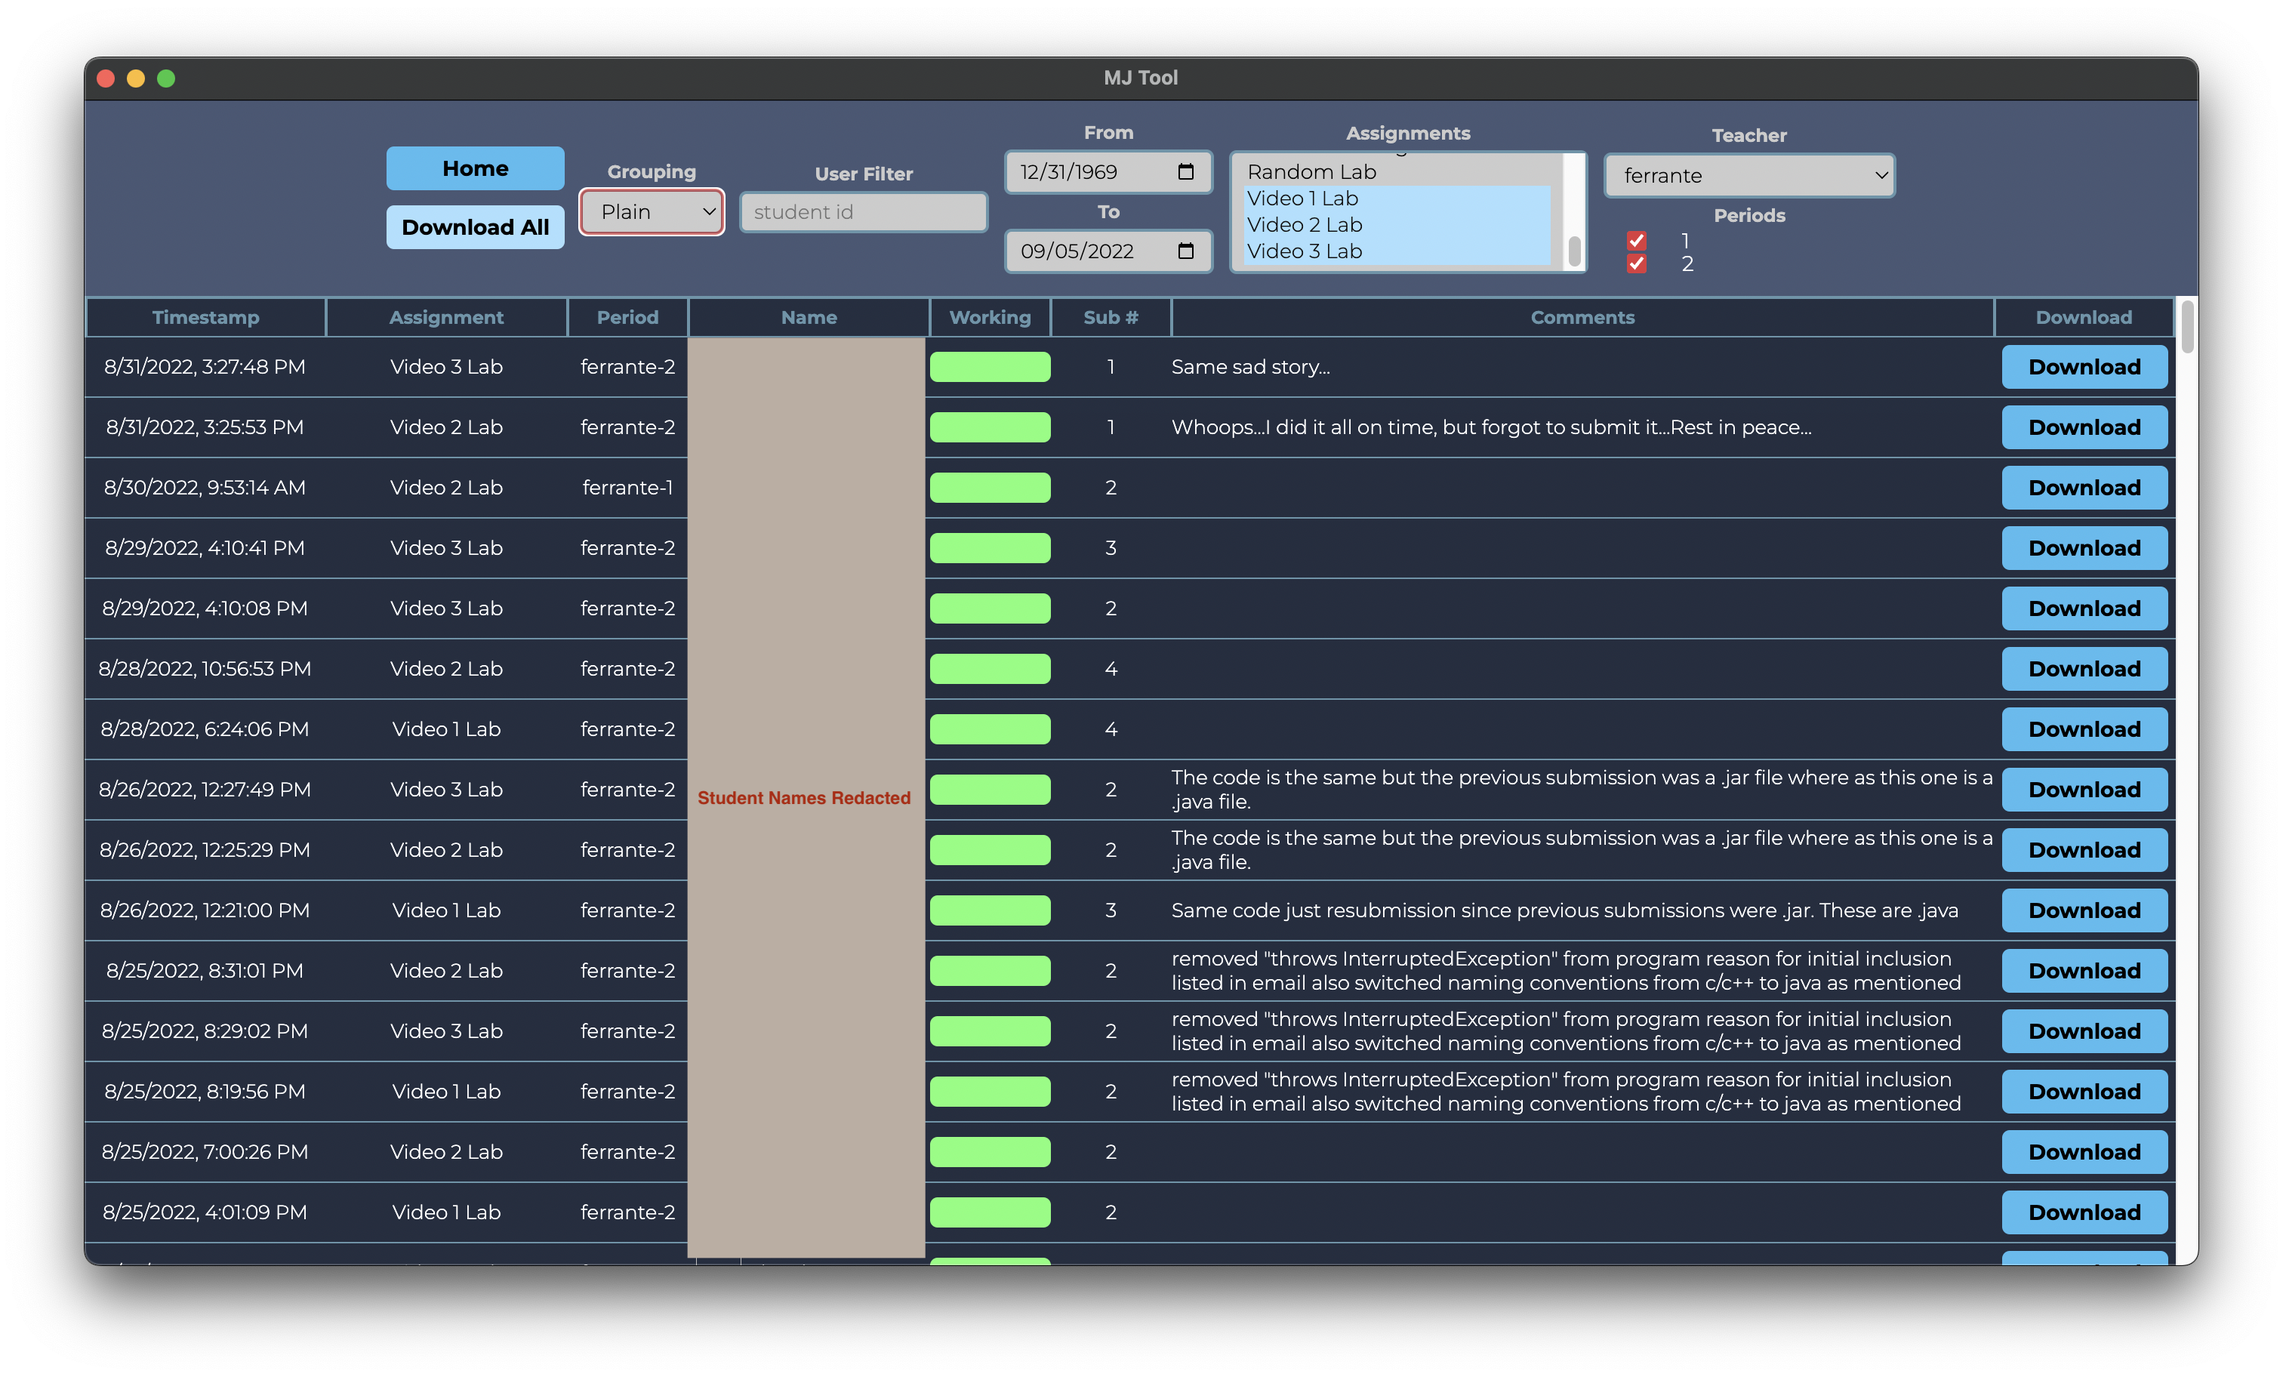
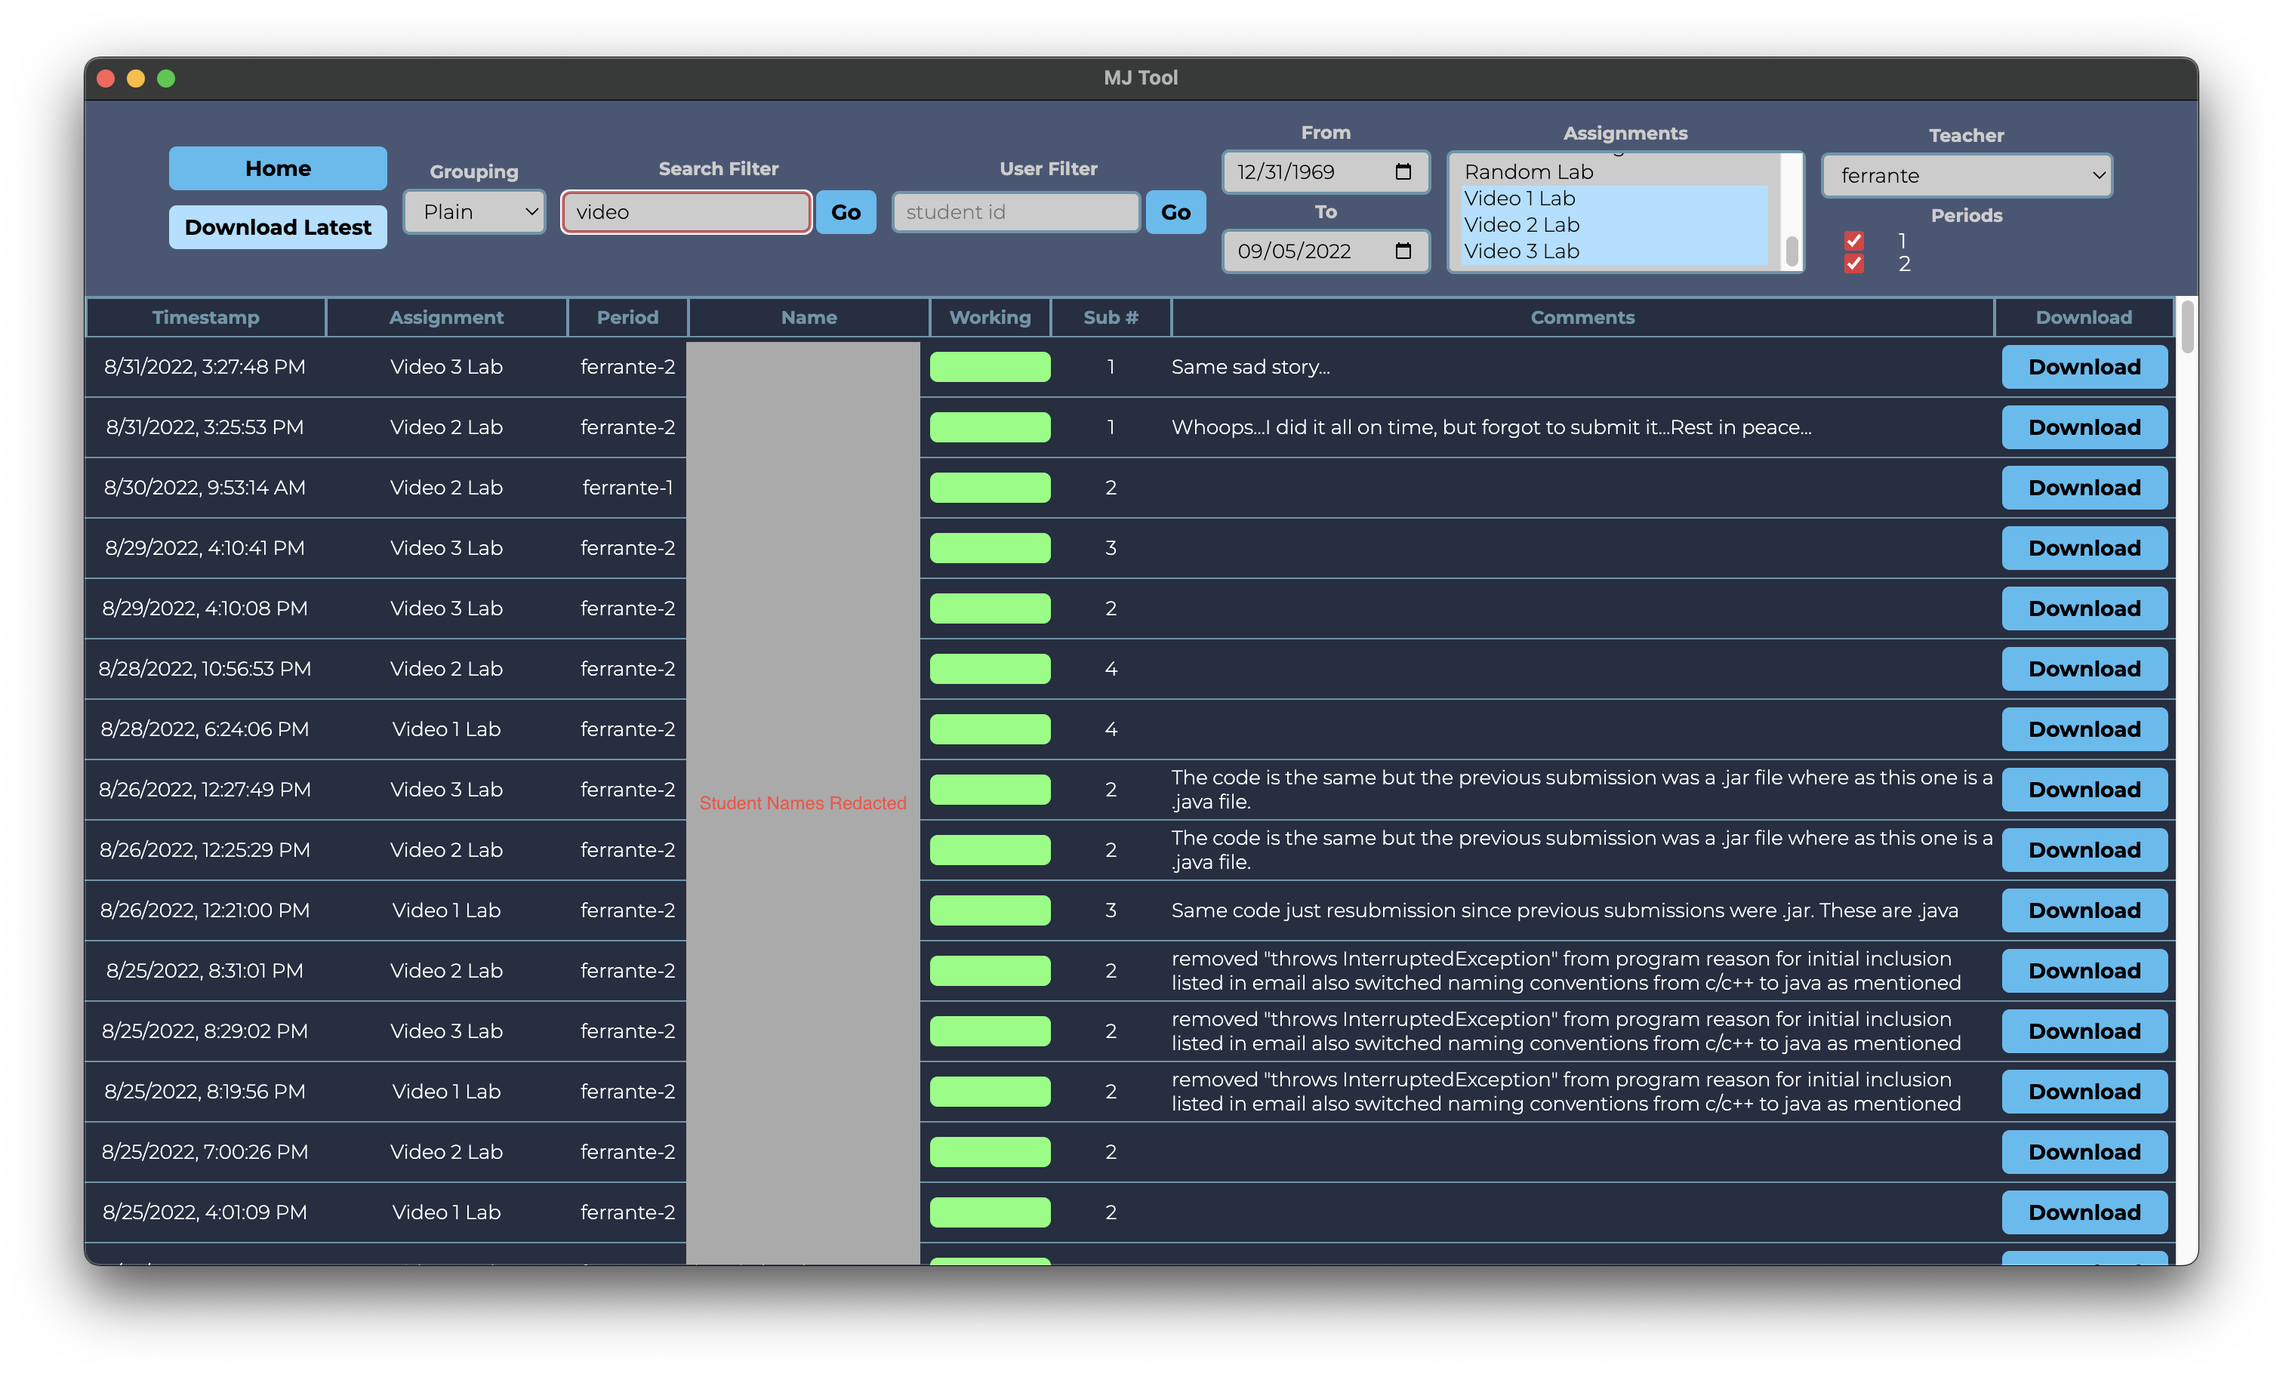
Add general search feature

diff --git a/src/components/main/main.tsx b/src/components/main/main.tsx
@@ -1,4 +1,4 @@
-import React, { useState } from "react";
+import React, { FormEvent, useDebugValue, useState } from "react";
 import { Link, useLocation } from "react-router-dom";
 import { landing_state } from "../landing/state_provider";
 import { api_credentials, assignment_meta, queryAssignments, submission_meta } from "../../util/proxy";
@@ -16,6 +16,7 @@ type setStateType = (delta : Partial<main_state>) => void
 export interface main_state {
     grouping: "Ordered" | "Plain"
 
+    search: string,
     sid: number | null
     date_start?: Date,
     date_end?: Date,
@@ -53,15 +54,17 @@ function Actions(props: {state: main_state, subs: Promise<submission_meta[] | st
                 }
 
                 // go in order, so that latest results override first
-                for (const submission of flatten(await categorize(subs, credentials, props.state.assignments, props.state.teacher, props.state.period)).reverse()) {
-                    await downloadSubmission(submission, props.state, !hasOpened)
-                    if (!hasOpened) {
-                        hasOpened = true;
+                for (const submission of flatten(await categorize(subs, credentials, props.state.assignments, props.state.teacher, props.state.period, props.state.search)).reverse()) {
+                    if (submission.ref.version === submission.student.submissions.length) {
+                        await downloadSubmission(submission, props.state, !hasOpened)
+                        if (!hasOpened) {
+                            hasOpened = true;
+                        }
                     }
                 }
                 displayMessage("Success","info", "All files have been downloaded")
             }}>
-                Download All
+                Download Latest
             </button>
 
             {props.state.grouping === "Ordered" && 
@@ -95,14 +98,50 @@ function Grouping(props: {grouping: string, setState : setStateType}) {
     )
 }
 
-function SID(props: {sid: number, setState : setStateType}) {
+function Search(props: {search: string, setState : setStateType}) {
+    const [buffer, setBuffer] = useState(props.search)
+    function submit(event : FormEvent) {
+        event.preventDefault()
+        props.setState({search: buffer, grouping: "Plain"})
+    }
+
+    return (
+        <div className="col">
+            <label>Search Filter</label>
+            <form className="row" onSubmit={submit}>
+                <input placeholder="comments, files, names, etc" value={buffer || ""} onChange={event => {
+                    setBuffer(event.target.value)
+                }}/>
+                <button className="capsule primary-button search-button">
+                    Go
+                </button>
+            </form>
+           
+        </div>
+    )
+}
+
+function SID(props: {sid: number | null, setState : setStateType}) {
+    const [buffer, setBuffer] = useState(props.sid)
+
+    function submit(event : FormEvent) {
+        event.preventDefault()
+        props.setState({sid: buffer, grouping: "Plain"})
+    }
+
     return (
         <div className="col">
             <label>User Filter</label>
-            <input placeholder="student id" value={props.sid || ""} onChange={event => {
-                const str = event.target.value.replace(/\D/g,'')
-                props.setState({sid: str ? parseInt(str) : null})
-            }}/>
+            <form className="row" onSubmit={submit}>
+                <input placeholder="student id" value={buffer || ""} onChange={event => {
+                    const str = event.target.value.replace(/\D/g,'')
+                    setBuffer(str ? parseInt(str) : null)
+                }}/>
+                <button className="capsule primary-button search-button">
+                    Go
+                </button>
+            </form>
+           
         </div>
     )
 }
@@ -159,6 +198,7 @@ function Toolbar(props: {state : main_state, setState : setStateType, subs: Prom
         <div className="row toolbar">
             <Actions state={props.state} subs={props.subs}/>
             <Grouping grouping={props.state.grouping} setState={props.setState}/>
+            <Search search={props.state.search} setState={props.setState}/>
             <SID sid={props.state.sid} setState={props.setState}/>
             <DateRange start={props.state.date_start} end={props.state.date_end} setState={props.setState}/>
             <Guard async={queryAssignments({key: props.state.api_password, url: props.state.api_url})} fallback={<LoadingSmall/>}>

diff --git a/src/components/main/tasks.ts b/src/components/main/tasks.ts
@@ -42,6 +42,33 @@ function validSubmissionFor(submission_meta : submission_meta, state : main_stat
             return true;
         }
     }
+
+    return false;
+}
+
+function secondaryValidSubmissionFor(submission : submission, search : string) : boolean {
+    if (!search) {
+        return true;
+    }
+
+    const terms = search.toLowerCase().split(" ")
+    const student = submission.student.ref
+    const roster = submission.student.roster.ref
+    const assignment = submission.student.roster.assignment.ref
+
+    const matchAgainst = submission.file_names
+        .concat(submission.ref.comment, [student.first, student.last], [roster.teacher], [assignment.name])
+        .map(x => x.toLowerCase())
+    
+    
+    for (const term of terms) {
+        for (const pair of matchAgainst) {
+            if (pair.includes(term)) {
+                return true;
+            }
+        }
+    }
+
     return false;
 }
 
@@ -118,7 +145,7 @@ export async function quickCopy(subs: submission_meta[], state: main_state) {
         url : state.api_url
     }
     try {
-        const assignments = await categorize(subs, credentials, state.assignments, state.teacher, state.period)
+        const assignments = await categorize(subs, credentials, state.assignments, state.teacher, state.period, state.search)
         await copy(credentials, assignments, state.due_date)
         await displayMessage("Status", "info", "Copy success")
     } catch (err : any) {
@@ -145,7 +172,8 @@ function mappedRoster(meta : roster_meta, assignment : assignment) : roster {
     return ret;
 }
     
-export async function categorize(meta : submission_meta[], credentials: api_credentials, assignments : assignment_meta[], teacher: string, periods: number[]) : Promise<assignment[]> {
+
+export async function categorize(meta : submission_meta[], credentials: api_credentials, assignments : assignment_meta[], teacher: string, periods: number[], search: string) : Promise<assignment[]> {
     // get a master list for back and forth
 
     const assignmentSkeleton : {[path: string] : assignment} = {}
@@ -178,7 +206,6 @@ export async function categorize(meta : submission_meta[], credentials: api_cred
 
         assignmentSkeleton[assignment.path] = mapped
     }
-    const promises : Promise<string[]>[] = []
 
     for (const sub of meta) {
         const lesson = sub.lesson;
@@ -189,12 +216,15 @@ export async function categorize(meta : submission_meta[], credentials: api_cred
         const student = assignmentSkeleton[lesson].map[roster].map[studentID]
 
 
-        const submission : submission = {ref: sub, student: student, file_names: []}
-        promises.push(queryFilenames(credentials, sub, student).then(fileNames => submission.file_names = fileNames))
-
-        student.submissions.push(submission)
+        const fileNames = await queryFilenames(credentials, sub, student);
+        const submission : submission = {ref: sub, student: student, file_names: fileNames}
+        if (secondaryValidSubmissionFor(submission, search)) {
+            student.submissions.push(submission)
+        }
     }
-    await Promise.all(promises)
+
+    // last round of filtering
+
 
     return Object.values(assignmentSkeleton)
 }

diff --git a/src/components/main/plain.tsx b/src/components/main/plain.tsx
@@ -53,16 +53,19 @@ export default function PlainViewport(props: {subs: submission_meta[], state: ma
     return (
         <div className="scroll">
             <Header/>
-            {props.subs.length === 0 && 
-                <p className="error">
-                    No submissions found matching criteria
-                </p>
-            }
-            <Guard async={categorize(props.subs, credentials, props.state.assignments, props.state.teacher, props.state.period)} fallback={<LoadingSmall/>}>
-            {assignments => 
-                flatten(assignments)
-                    .map(x => <Submission state={props.state} key={x.ref.student_id + '-' + x.ref.version + x.ref.lesson} submission={x}/>)}
             
+            <Guard async={categorize(props.subs, credentials, props.state.assignments, props.state.teacher, props.state.period, props.state.search)} fallback={<LoadingSmall/>} nocache>
+            {assignments =>
+            <>
+                {assignments.length === 0 && 
+                    <p className="error">
+                        No submissions found matching criteria
+                    </p>
+                }
+                {flatten(assignments)
+                    .map(x => <Submission state={props.state} key={x.ref.student_id + '-' + x.ref.version + x.ref.lesson} submission={x}/>)}
+            </> 
+            }
             </Guard>
         </div>
     )

diff --git a/src/components/main/ordered.tsx b/src/components/main/ordered.tsx
@@ -104,13 +104,16 @@ export default function StandardViewport(props: {subs: submission_meta[], state:
     }
     return (
         <div className="scroll">
-            {props.subs.length === 0 && 
-                <p className="error">
-                    No submissions found matching criteria
-                </p>
-            }
-            <Guard async={categorize(props.subs, credentials, props.state.assignments, props.state.teacher, props.state.period)} fallback={<LoadingSmall/>}>
-                {assignments => assignments.map(assignment => <Assignment key={assignment.ref.name} assignment={assignment} state={props.state}/>)
+            <Guard async={categorize(props.subs, credentials, props.state.assignments, props.state.teacher, props.state.period, props.state.search)} fallback={<LoadingSmall/>} nocache>
+                {assignments => 
+                <>
+                {assignments.length === 0 && 
+                    <p className="error">
+                        No submissions found matching criteria
+                    </p>
+                }
+                {assignments.map(assignment => <Assignment key={assignment.ref.name} assignment={assignment} state={props.state}/>)}
+                </>
                 }
             </Guard>
         </div>

diff --git a/src/components/landing/recent_submissions.tsx b/src/components/landing/recent_submissions.tsx
@@ -52,6 +52,7 @@ export default function RecentSubmissions(props: {state: landing_state, setError
             ...props.state,
 
             grouping: "Plain",
+            search: "",
     
             date_start: daysBeforeNow(lastXDays),
             sid: null,
@@ -87,6 +88,7 @@ export function StudentSubmissions(props: {state: landing_state, setError: (erro
             ...props.state,
 
             grouping: "Plain",
+            search: "",
     
             date_start: daysBeforeNow(lastXDays),
             sid: sid,

diff --git a/src/util/async.tsx b/src/util/async.tsx
@@ -11,12 +11,16 @@ interface propsGuard<T> {
     children: (info: T) => ReactNode, 
     fallback: ReactNode
     error?: (error: string) => void
+    nocache?: boolean
 }
 
 
 export function Guard<T>(props: propsGuard<T>) {
     const [active, setActive] = useState(props.fallback);
     useEffect(() => {
+        if (props.nocache) {
+            setActive(props.fallback)
+        }
         props.async.then(value => {
             setActive(props.children(value))
         }).catch(err => {

diff --git a/src/components/landing/assignment_specific.tsx b/src/components/landing/assignment_specific.tsx
@@ -66,6 +66,7 @@ function getState(state: landing_state, active: assignment_meta, due : Date) : m
         ...state,
 
         grouping: "Ordered",
+        search: "",
 
         sid: null,
         assignments: [active],

diff --git a/src/components/main/main.css b/src/components/main/main.css
@@ -16,9 +16,14 @@ select option:checked {
   background-color: var(--accent2);
 }
 
+.search-button {
+    margin-left: -2px !important;
+}
+
 .scroll {
     overflow-y: scroll;
 }
+
 
 
 .table-guard span {

diff --git a/README.md b/README.md
@@ -26,12 +26,14 @@ Simply use one of the three designated viewing templates to query submissions.
 - Recent submissions is useful for looking at resubmits and related items.
 - Student view allows you to see the most recent submissions for a given student (identified by their FUHSD ID)
 - You can also play around with the filters at the top of the main page for more complex queries!
-- **Important:** Download latest only downloads the latest version of any user (i.e. if a user submits two versions of an assignment that matches the specified filter, only version 2 will be downloaded). This helps prevents extraneous files from showing up.
+- **Important:** Download latest only downloads the latest version of any user (i.e. if a user submits two versions of an assignment that matches the specified filter, only version 2 will be downloaded). This helps prevents extraneous files from showing up. You are free to manually download version 1, of course.
 
 # Potential Improvements 
+- General search feature. The problem comes that a lot of the storage on the database is disconnected, the general search means filtering in a lot of different places in the app. From a technical standpoint, it involves a second round of filtering after the categorization step, which builds the state tree. the other filters, however, work before the categorization step, either on the database itself or on the client which filters assignments when there's more than 1). This is rather ugly, and ideally all of it would happen on the server to be perfectly honest.
 - Make the app a full on grading tool, where the grading can be done on the app itself (and then the scores are available on the website). Jiaming and I ruled against this on the principle that it would be a significant amount of work (likely meaning I wouldn’t be able to finish before college, which is my soft deadline). Moreover, Google Sheets has the functionality of instant updates. While we have some solutions (i.e. claiming submissions in a locking mechanism), they’re all generally inferior.
 - Include direct auto grader support. This is possible, but a bit tricky. It would likely involve having to call a Java subprocess. For now, we ruled that just having autograders in IntelliJ or Eclipse should be efficient enough
 - Pagination (essentially all possible metadata results are loaded at once, rather than being lazy loaded). Probably shouldn’t matter too much in this particular case, since the user likely looks at every single metadata instance anyways.
+- Another optimization is solving the problem of the client currently sending redundant API calls. Cacheing could be an easy fix, but is not a good solution. A lot of the redundancy comes from researching even on intermediate states (i.e. when you're typing a student id, and are only halfway there).
 
 # Potential Bugs
 - Error handling in some situations can be confusing. However, once initial configuration is done properly, this should not be a real problem.
